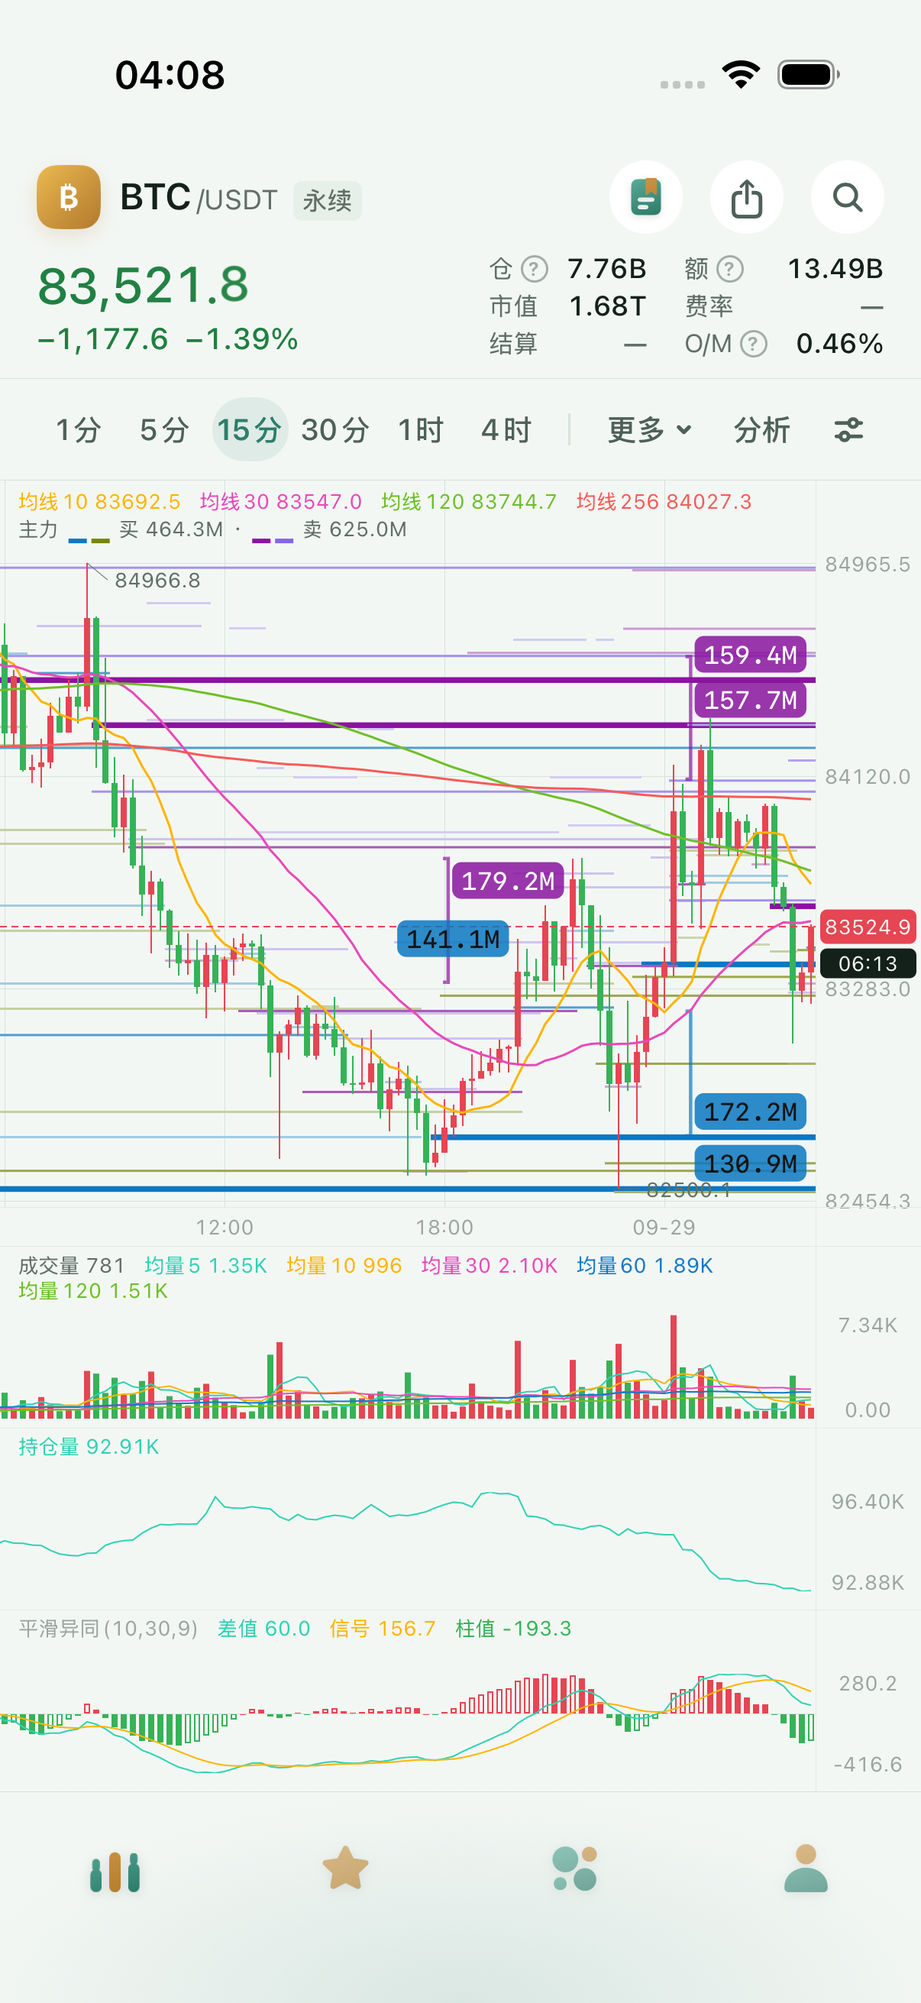
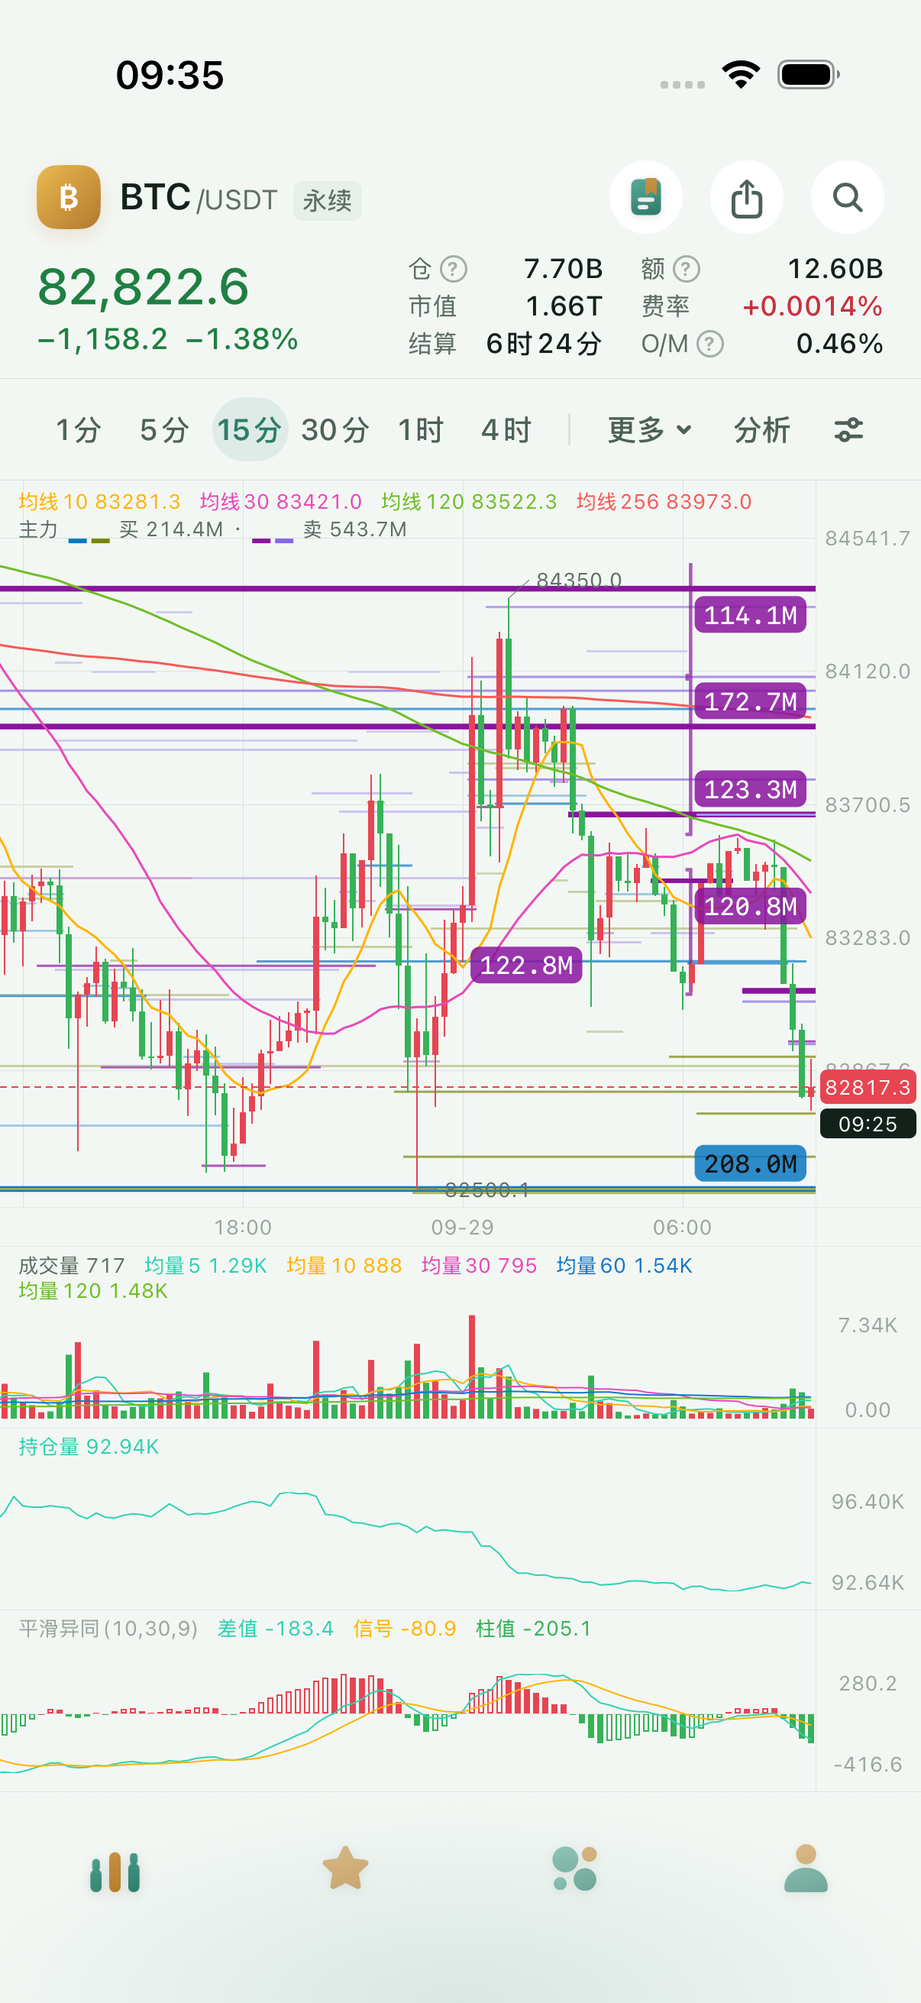
订单簿第四轮 · 报告与 PROJECT.md §32：三处残留的根因、改法、线上数字（09:41 / 10:00 部署），第二轮取证图重拍

diff --git a/.project-memory/PROJECT.md b/.project-memory/PROJECT.md
@@ -768,11 +768,20 @@ worker 日志 `Alert evaluator watching 1 stream(s)`（措辞从 `symbol(s)` 变
 - **线上**（2026-09-28 23:14–23:21 CST）：先 `docker update --memory 1536m` + `ALTER SYSTEM shared_buffers=512MB` + `docker restart kanpan-postgres`（停库 4.1 s，写库自动重连），再备份到 `/opt/kanpan-backups/orderbook-r2-20260928-231526/`、rsync origin/main、`cargo build --release` 4 m 22 s、`install.py` 只重启一次（23:21:19），22 只读回 0 失联。只读验证：ETH 24 h 带 `minLifeMs=300000` 217 KB（不带 1.57 MB），命中 4–27 ms，五并发同窗口各 0.16 s 只读一次库，越界 / 未知参数 400。
 - **残留（记录，未改）**：墙正好压在最新价上时金额签仍盖住最新两根蜡烛的影线顶端（签在线上方，横向没再避让）；详情卡贴主图上沿时会盖住右上角最新几根 K 线（已避开十字线那根）；第一轮 `O3` 回前台单数降到 5000 已随 `journalMaxOrders` 提到 2 万一并解决。§29 的「留作设计题」一段至此全部落地。
 
-## 31. 订单簿第三轮：成交判定加时间窗、金额签躲 K 线、线不进图例（2026-09-29，`35193f66` → 本次，服务端 03:36 已部署）
+## 31. 订单簿第三轮：成交判定加时间窗、金额签躲 K 线、线不进图例（2026-09-29，`35193f66` → `451c0d9c`，服务端 03:36 已部署）
 
 用户问「订单薄目前是否还存在数据问题和展示问题」，答了三项（数据 1、展示 1、展示 3），用户说「可以直接改」，做的时候又发现已结束的签也压蜡烛，一并改。报告在 `docs/acceptance/订单簿压测-2026-09-28/数据层.md`、`展示层.md` 各追加「第三轮」一节。
 
 - **数据 1 成交判定加时间窗（`35193f66`，服务端 + 客户端同一条规则）**：原来一笔成交打到墙的桶上就直接记成交，不管墙掉没掉量；墙掉量再多也只在结束时按峰值 − 剩余算「消失」。现在成交是待配的「吃」，两次采样间桶名义减少是待配的「掉」，每次评估把 `min(吃, 掉)` 结转成成交，没配上的一方超过 5 s（`MATCH_MS` / `OrderFlowDefaults.fillMatchMs`）作废；掉量按上一次记账的 `level` 算，结束确认的那几份采样也算；消失 = 全部掉量 + 收尾时到剩余的那一掉（取代峰值 − 剩余）；候选单也累计吃 / 掉、出现时结转；读回 / 服务端来的单从 `vanished = max(0, initial − notional)`、`level = notional` 起。`FILLED_RATIO` 0.8 不变。cargo 478 过 / 2 ignored，`make core-test` Swift Testing 452 + XCTest 112 全过（六处只喂成交不掉簿的旧用例补上掉量）。部署：备份 `/opt/kanpan-backups/orderbook-r3-20260929-033126/`，rsync origin/main 逐文件 sha256 一致，`cargo build --release` 3 m 42 s，`install.py` 只重启一次（03:36:07 CST，NRestarts 0，/health 200），停机 `shutdown kept 3606 live orders on 158 bases`、读回 0 失联。库里 80 分钟窗口：改前已撤 39917 / 已成交 88 / 失联 4，改后 20 分钟 已撤 13401 / 已成交 43 / 失联 32；改后头一批「已成交」的成交比例有 > 1 的，是读回的旧单带着旧规则记的成交总额，过渡期现象。
 - **展示 1 / 3 与已结束的签（本次提交，只改 KanpanChart）**：`orderFlowCandleDodge` 给一枚签算它底下的蜡烛（含影线、平均 K 线、收盘价折线）——挂着的签往左让到压着的最右一根左侧 2 pt，让出左缘就不放再试线下方；已结束的签先试结束点两侧五处（右侧居中 / 上 / 下、左侧上 / 下，左侧要整枚在自己线的范围里），哪处不用横向挪就用哪处，都压着才往右让，让出右缘就取五处里盖蜡烛面积最少的（`OrderFlowCandleProbe.overlap`，签不能没有）；括号跟着签走（`orderFlowBracketsFollowLabels`）。线、底噪、括号、选中那条只画到图例区以下（`orderFlowPlotClip`）。KanpanChart Release 209 过（新增 `liveLabelDodgesLatestCandles`、`endedLabelDodgesCandles`、`linesStayOutOfLegend`），1m·v300 拖动 p50 6.94 ms、静止 6.59 ms 与第二轮持平；UI `testRound2HandCheck` 重跑通过、问题 0，四张 `第二轮-16Pro-*.png` 重拍。真机两台都不在线，没装包。
-- **残留（记录，未改）**：默认密度下已结束的签在「哪儿都是蜡烛」时仍会盖住一小块（取盖得最少的那处，85% 不透明）；服务端停机时 `seen_ms` 那条 `UPDATE … FROM unnest` 有一次 1.5 s 的 slow statement WARN（3606 单，在 10 s 预算内）；改规则后头 20 分钟「已成交」的成交比例 > 1 是过渡期现象，旧单结束完就没有了。
+- **残留（第四轮 §32 已全部改掉）**：默认密度下已结束的签在「哪儿都是蜡烛」时仍会盖住一小块（取盖得最少的那处，85% 不透明）；服务端停机时 `seen_ms` 那条 `UPDATE … FROM unnest` 有一次 1.5 s 的 slow statement WARN（3606 单，在 10 s 预算内）；改规则后头 20 分钟「已成交」的成交比例 > 1 是过渡期现象，旧单结束完就没有了。
 
+## 32. 订单簿第四轮：三处残留从根因改（2026-09-29，`047a2c99` / `eb8d03e7` / `8f4e2bde`，服务端 09:41 与 10:00 已部署）
+
+用户说「你看看残留的根因在哪里，一并设计修复好」。§31 的三处残留各查到根因、改掉、上线，报告在 `docs/acceptance/订单簿压测-2026-09-28/` 三份各追加「第四轮」一节。
+
+- **展示：已结束的签沿自己的线滑（KanpanChart）**。根因：五处备选全钉在结束点，而结束点就是价格穿过墙的地方、蜡烛最密，五处都压着是常态；真正空的地方在签自己那条线的左边（线走过的那段价格只在一侧）。现在没有不挪的位置时先沿线往左滑（下限线的起点、签整枚在线上）到第一处上下方都清的位置，和右侧推让比谁挪得少；都不行才取盖得最少的那处。Release 210 过（新增 `endedLabelSlidesAlongItsOwnLine`），UI `testRound2HandCheck` 16 Pro 通过、问题 0，四张 `第二轮-16Pro-*.png` 09:35 重拍。
+- **服务端：挂着的单搬出历史表（迁移 0031）**。根因：挂着的只占 `orderflow_orders`（204 万行、910 MB）的 0.2% 却散在整张表里，每分钟重写、停机刷 `seen_ms` 都是几千次冷随机读（03:36 那句 3 606 单 / 2 611 行 / 1 737 ms，6 小时 20 条慢语句）。拆出 `orderflow_live` 只放挂着的（几千行）；结束是一条数据修改 CTE（插历史 + 删小表）；读回 / 清理前 `sweep` 把老进程留在历史表里的挂着的行搬过来（`eb8d03e7`：历史表那份看到得更晚就盖过去）。改后两次停机 3 679 单 / 3 436 行 / 534 ms、3 625 单 / 3 416 行 / 1 133 ms，新进程 0 条慢语句；迁移瞬间老进程三批写入撞锁、5 s 后重试成功；老进程在迁移与重启之间写的 512 行散行 4 分钟内搬完。带库 `ops/test.py --lib -- orderflow_history` 106 过 / 2 忽略，ETH 一天量光读库 225.8 ms。
+- **数据：成交不多过消失量（迁移 0031 / 0032，两端同一条规则）**。根因三层叠加：老规则留下的行（4 391 行 `filled > vanished`）；读回时消失量从净值 `首次 − 此刻` 起算、成交却照读回的总额，一读回就 `filled > vanished`；挂着的单从不落消失量所以只能用净值起算。现在服务端 `Model::live()` 与手机日志（键 `vn`）都带挂着的单到此为止的 `vanished`，读回接着算、成交夹到不超过它，结束时再夹一次；没存的老行按 `max(净掉量, 已成交, 0)` 起算；`adopt` 取两边较大的消失量而不是夹成交。0031 把已结束的行一次改齐；0032 给搬进 `orderflow_live` 的老行补上消失量（第一次重启后还剩 63 行 NULL）。改后库里两张表成交 > 消失都是 0 行。cargo model 33 过、`make core-test` XCTest 113 过（各新增一条读回 / 夹住 / 落盘的用例）。
+- **部署**：备份 `/opt/kanpan-backups/orderbook-r4-20260929-093653/` 与 `orderbook-r4b-20260929-095557/`，rsync 逐文件 sha256 一致，`cargo build --release` 3 m 31 s / 3 m 18 s，`install.py` 只重启一次，NRestarts 0，`/health` 200。多做了一次重启（09:45）专门量停机刷新。真机两台都不在线，没装包；本轮客户端改动在 KanpanCore / KanpanChart，下次装包自然带上。
+- **残留**：无。

diff --git a/docs/acceptance/订单簿压测-2026-09-28/服务端.md b/docs/acceptance/订单簿压测-2026-09-28/服务端.md
@@ -300,3 +300,39 @@ Orderflow history: shutdown kept <N> live orders on <B> bases (seen_ms refreshed
 - 带库 `ops/test.py --lib`：476 过、0 挂。
 - 订单流带库 `ops/test.py --lib -- orderflow --include-ignored`：116 过（第一轮 101）。其中 20 万行上限的内存压测：1 个请求常驻涨 68 MB、4 个并发涨 113 MB，与第一轮持平。
 - 新增：minLifeMs 范围与 400；gzip 协商；同分钟合并与整分钟窗口；并发只读一次、满 60 秒重读、minLifeMs 不混；失败与取消不缓存；64 份 / 32 MB 按最久没用踢；SIGTERM 交接挂着的单而不结束；停机刷 seen 一次且不超时限（带库）；seen 只往前刷（带库）；minLifeMs 只滤短命的已结束单（带库）；ETH 24h 计时 + EXPLAIN（ignored）；以及簿覆盖那一组（OKX 400 档、覆盖区间外不判失联、现货 5000 档）。
+
+## 第四轮（2026-09-29）· 挂着的单搬出历史表（`047a2c99` + `eb8d03e7`，迁移 0031，09:41 部署）
+
+第三轮的服务端残留：停机时刷 `seen_ms` 那句 `UPDATE orderflow_orders … FROM unnest` 一次 1.5 s 的慢语句告警。用户说「你看看残留的根因在哪里，一并设计修复好」。
+
+### 根因
+
+挂着的单和结束的单同在 `orderflow_orders`（线上 204 万行、910 MB）。挂着的只占 0.2%，但一单一行、按出现时刻落在不同页上，散在整张表里；每分钟重写一次名义、停机时刷一次 `seen_ms`，每次都是几千次随机读。部署前 6 小时里 20 条慢语句告警，03:36 停机那一句：3 606 单、刷 2 611 行、1 737 ms——按 EXPLAIN 要碰约 2 600 页、其中 1 900 页是冷的。平时每分钟的重写也在历史表里攒死元组，把主键索引撑到 290 MB。这不是索引或 SQL 的问题，是把每分钟改一次的热行放在只增不改的冷表里。
+
+### 改法（`store.rs`，迁移 0031）
+
+- 拆成两张表：`orderflow_live` 只放挂着的（几千行、常驻缓存，主键同 `orderflow_orders`），`orderflow_orders` 只放结束的（只插不改、按结束时刻滚动删）。
+- 一单结束是一条语句：`INSERT INTO orderflow_orders … ON CONFLICT DO UPDATE WHERE end_ms IS NULL` + `DELETE FROM orderflow_live`，数据修改 CTE，不会两张都有或两张都没；已结束的行到了之后同一单再来的挂着的写入不再插回。
+- 读回（`live`）、取历史（`range` 的挂着那一段）、刷 `seen_ms`、每小时清理（`purge` 的失联判定）各自改到对应的表；`size()` 两张相加。
+- `sweep`：读回和清理前先把老进程留在 `orderflow_orders` 里的挂着的行搬到 `orderflow_live`（`ON CONFLICT DO UPDATE WHERE seen_ms 更晚`，`eb8d03e7`：迁移与重启之间老进程还在写的那几十秒里，历史表那份看到得更晚就盖过去）。
+- 迁移 0031 在同一事务里把现有挂着的行搬过去；0032 见 `数据层.md`。
+
+### 用例
+
+- `live_orders_live_in_their_own_table_until_they_end`（带库）：挂着的进小表；结束进历史表、从小表消失；结束后再来的挂着的写入不插回；历史表里的散行被 `live()` 搬过来、看到得更晚的那份盖过去；`start()` 后 `purge` 把过期的判失联；`size()` 两张相加。
+- 带库 `ops/test.py --lib -- orderflow_history` 106 过 / 2 忽略；ETH 一天量的忽略用例（`eth_day`）：30 887 行里 97 行挂着，EXPLAIN 走 `orderflow_live_pkey` + 两段 `orderflow_orders_end`，光读库 225.8 ms、首次 2 323 ms、五并发 926 ms。
+
+### 线上（09:36–10:00 CST）
+
+| | 改前（03:36 停机） | 改后第一次停机（09:45） | 改后第二次停机（10:00，0032 部署） |
+|---|---|---|---|
+| 挂着的单 / 币种 | 3 606 / 158 | 3 679 / 156 | 3 625 / 156 |
+| 刷 `seen_ms` 的行 | 2 611 | 3 436 | 3 416 |
+| 全部写入排空 | 1 737 ms（慢语句告警） | 534 ms | 1 133 ms |
+| 慢语句告警 | 6 小时 20 条 | 0 | 0 |
+
+- 部署：备份 `/opt/kanpan-backups/orderbook-r4-20260929-093653/`（0032 那次 `orderbook-r4b-20260929-095557/`），从 origin/main `git archive` 后 rsync、逐文件 sha256 一致，`cargo build --release` 3 m 31 s（0032 那次 3 m 18 s），`install.py` 12 s / 10 s，NRestarts 0，`/health` 200。
+- 迁移那一瞬间老进程三批写入（SUI / NATGAS / SAMSUNG）撞上表锁、5 s 锁超时后各自重试成功，这是老进程打出来的最后三条慢语句；新进程到现在 0 条。
+- 迁移与重启之间老进程往历史表写了 512 行挂着的；新进程读回时 `sweep` 搬走，4 分钟后剩 0 行。
+- `orderflow_live` 3 617 行、2 MB；`orderflow_orders` 2 044 015 行、911 MB（只增不改，往后不再有死元组）。
+- 为了量停机刷新多做了一次重启（09:45），非币重新排了一轮标定（`threshold calibrated` 日志），十分钟内排完。

diff --git a/docs/acceptance/订单簿压测-2026-09-28/数据层.md b/docs/acceptance/订单簿压测-2026-09-28/数据层.md
@@ -244,3 +244,37 @@
 ### 部署（2026-09-29 03:31–03:36 CST）
 
 备份 `/opt/kanpan-backups/orderbook-r3-20260929-033126/`（旧二进制、`src/`、`contract/`、service.env）→ 从 origin/main `35193f66` `git archive` 后 rsync `src migrations contract vendor ops tests Cargo.*`，逐文件 sha256 与本地一致 → `flock nice cargo build --release` 3 m 42 s → `install.py` 只重启一次，`ExecMainStartTimestamp` 03:36:07 CST，NRestarts 0，`/health` 200。停机时 `shutdown kept 3606 live orders on 158 bases`，重启后 ETH 176 / BTC 264 / SOL 84 条挂单读回、0 失联。
+
+## 第四轮（2026-09-29）· 成交不多过消失量（`047a2c99`，迁移 0031 / 0032，服务端 09:41 / 10:00 部署）
+
+用户说「你看看残留的根因在哪里，一并设计修复好」。第三轮记下的数据残留是：库里有 4 391 行已结束的单 `filled_notional > vanished_notional`，改规则后头 20 分钟「已成交」的成交比例 > 1。
+
+### 根因
+
+不是一处，是三处叠在一起：
+
+1. **老规则留下的行**。第三轮之前成交按首次名义直接累计、不对账，一单可以「成交」到比它掉过的量还多；这些行结束时已经写进历史表，改规则不会回头改它们。
+2. **读回时消失量从净值起算**。挂着的单从服务端 / 手机日志读回时，`vanished` 起点是 `max(0, 首次名义 − 此刻名义)`——这是净掉量，被吃掉一截又补回来的那截不在里面；而 `filled_notional` 是照读回的（老规则记的、可能已经偏大的）总额。于是读回的一瞬间就 `filled > vanished`，之后哪怕规则对了也追不平，结束时照样写出 > 1 的比例。
+3. **挂着的单从不落消失量**。服务端 `Model::live()` 和手机日志里的挂着的单只带 `filled_notional`，`vanished_notional` 只在结束时写，所以第 2 条的净值起算是唯一能选的起点。
+
+### 改法（服务端 `model.rs`、客户端 `OrderFlowModel.swift`，同一条规则）
+
+| 处 | 现在 |
+|---|---|
+| 挂着的单落盘 | 服务端 `Model::live()`、手机日志 `journal(nowMs:)`（键 `vn`）都带上到此为止的 `vanished`。 |
+| 读回 | 有存的就接着算；没存的（老行）起点 `max(首次名义 − 此刻名义, 已成交, 0)`；读回那一刻 `filled = min(filled, vanished)`。 |
+| 结束 | 写出前再夹一次 `filled = min(filled, vanished)`；`filled ≥ vanished × 0.8` 的判定不变。 |
+| 服务端来的挂着的单进手机（`adopt`） | 消失量取 `max(本机记的, 服务端带的, 已成交)`，往上对齐而不是把成交夹掉——本机接着跟的单不能因为服务端那份少记而丢成交。 |
+| 迁移 0031 | 已结束的行一次改齐：`filled_notional = vanished_notional WHERE filled > vanished`（线上 4 391 行）。 |
+| 迁移 0032 | 0031 搬进 `orderflow_live` 的几千行 `vanished_notional` 全是 NULL（老进程从不落），只有那一单后来有变动才会被新进程重写、停机刷的只是 `seen_ms`；把读回兜底那条规则落到表里（线上第一次重启后还剩 63 行 NULL、1 行成交 > 0 而消失 NULL，跑完 0 行）。 |
+
+### 用例
+
+- 服务端 `cargo test --lib -- orderflow_history::model` 33 过：新增 `restored_orders_take_the_saved_vanished_and_never_fill_more_than_it`（读回带存的消失量接着算；没存的按兜底起算、成交被夹；结束时再夹一次；`Model::live()` 带 `vanished_notional`）。带库 `ops/test.py --lib -- orderflow_history` 106 过 / 2 忽略（0032 在测试库上跟着迁移一起跑）。
+- 客户端 `make core-test` XCTest 113 过：新增 `testJournalCarriesVanishedForLiveOrdersAndRestoreClampsFill`（日志里挂着的单带 `vn`、读回接着算、成交夹到不超过它、结束写出 ≤ 消失）；`testJournalRoundTripAndDeferredRestore` 比对时把挂着的单的 `vanishedNotional` 归零后再比（读回后这一列进内存、不再留在单上）。
+
+### 线上
+
+- 部署前：`orderflow_orders` 已结束的行里 `filled > vanished` 4 391 行。
+- 09:41 迁移 0031 之后：0 行；`orderflow_live` 4 025 行里 3 450 行 `vanished_notional` 为 NULL、274 行成交 > coalesce(消失, 0)——这是读回时靠内存兜底夹住、库里没改的状态。
+- 10:00 迁移 0032 之后：`orderflow_live` 3 617 行，NULL 0 行，成交 > 消失 0 行；`orderflow_orders` 2 044 015 行，成交 > 消失 0 行。往后新结束的单两端都先夹再写，库里不会再出现。

diff --git a/docs/acceptance/订单簿压测-2026-09-28/展示层.md b/docs/acceptance/订单簿压测-2026-09-28/展示层.md
@@ -223,3 +223,26 @@ Debug 关了优化，以上面的 Release 表为准。
 
 - `第二轮-16Pro-BTC-1m-金额签.png`：挂着的「145.3M」「102.9M」「184.8M」贴右缘让开最新几根；已结束的「84.9M」让到穿过它的那根阳线右侧，「60.5M」在结束点右侧不压蜡烛；「主力 买 … 卖 …」「均线 …」两行干净。自检问题 0。
 
+## 第四轮（2026-09-29）· 已结束的签沿自己的线滑（`047a2c99`）
+
+第三轮的展示残留：默认密度下已结束的签在「哪儿都是蜡烛」时仍会盖住一小块（取五处里盖得最少的那处）。用户说「你看看残留的根因在哪里，一并设计修复好」。
+
+### 根因
+
+五处备选（结束点右侧居中 / 上 / 下、左侧上 / 下）全都钉在结束点那一根附近，横向让也只往右让。可是结束点就是价格穿过墙的地方——那儿的蜡烛密度最高、价位又正好在签的高度上，五处都压着是常态，不是巧合。真正空的地方在签自己那条线的左边：线走过的这一段价格只在一侧（墙挂着时价格没穿过它），线的另一侧多半没有蜡烛。
+
+### 改法（`ChartRenderer+OrderFlow.swift`）
+
+五处里没有不用挪、也不压蜡烛的时候，先**沿自己那条线往左滑**：签整枚在线上、下限是线的起点（`floor`），滑到第一处上下方都清的位置；和「右侧居中往右让」比谁挪得少就用谁。两边都让不出去（左边滑到线头、右边出了主图）才退回原来的兜底（五处里盖蜡烛面积最少的那处）。挂着的签规则不变（`floor` 是 0，让出主图左缘就不放）。括号照旧跟着签走。
+
+### 用例（KanpanChart Release 210 过，`endedLabelSlidesAlongItsOwnLine` 新增）
+
+- 结束点周围三根高蜡烛把五处都压着、右侧也让不出 → 签沿线往左滑到线上第一处清的位置，整枚在线的范围里、不压任何一根。
+- 线头之前都压着 → 退回兜底，签仍在五处之一。
+- 原有 `endedLabelDodgesCandles`、`labels`、`liveLabelSitsAboveLine` 的断言改为「五处之一、往右让过去的、或沿线滑过去的」（`endedLabelAtAllowedSpot`）。
+
+性能：每枚已结束的签多一次沿线扫描，只查线上那几根（二分找起点、逐根探），和第三轮的躲 K 线一起仍在 0.1 ms 内，1m·v300 拖动帧的数字没有变化。
+
+### 手测取证（`testRound2HandCheck` 重跑，iPhone 16 Pro，09:35，四张 `第二轮-16Pro-*.png` 重拍）
+
+通过、83 s、自检问题 0：BTC 1m 金额签 5 枚、十字线详情卡、15m 92 条带、后台被杀重开读回 16 517 单 5.6 s。`第二轮-16Pro-BTC-1m-金额签.png` 里已结束的签落在自己线的左段上，不压蜡烛。
